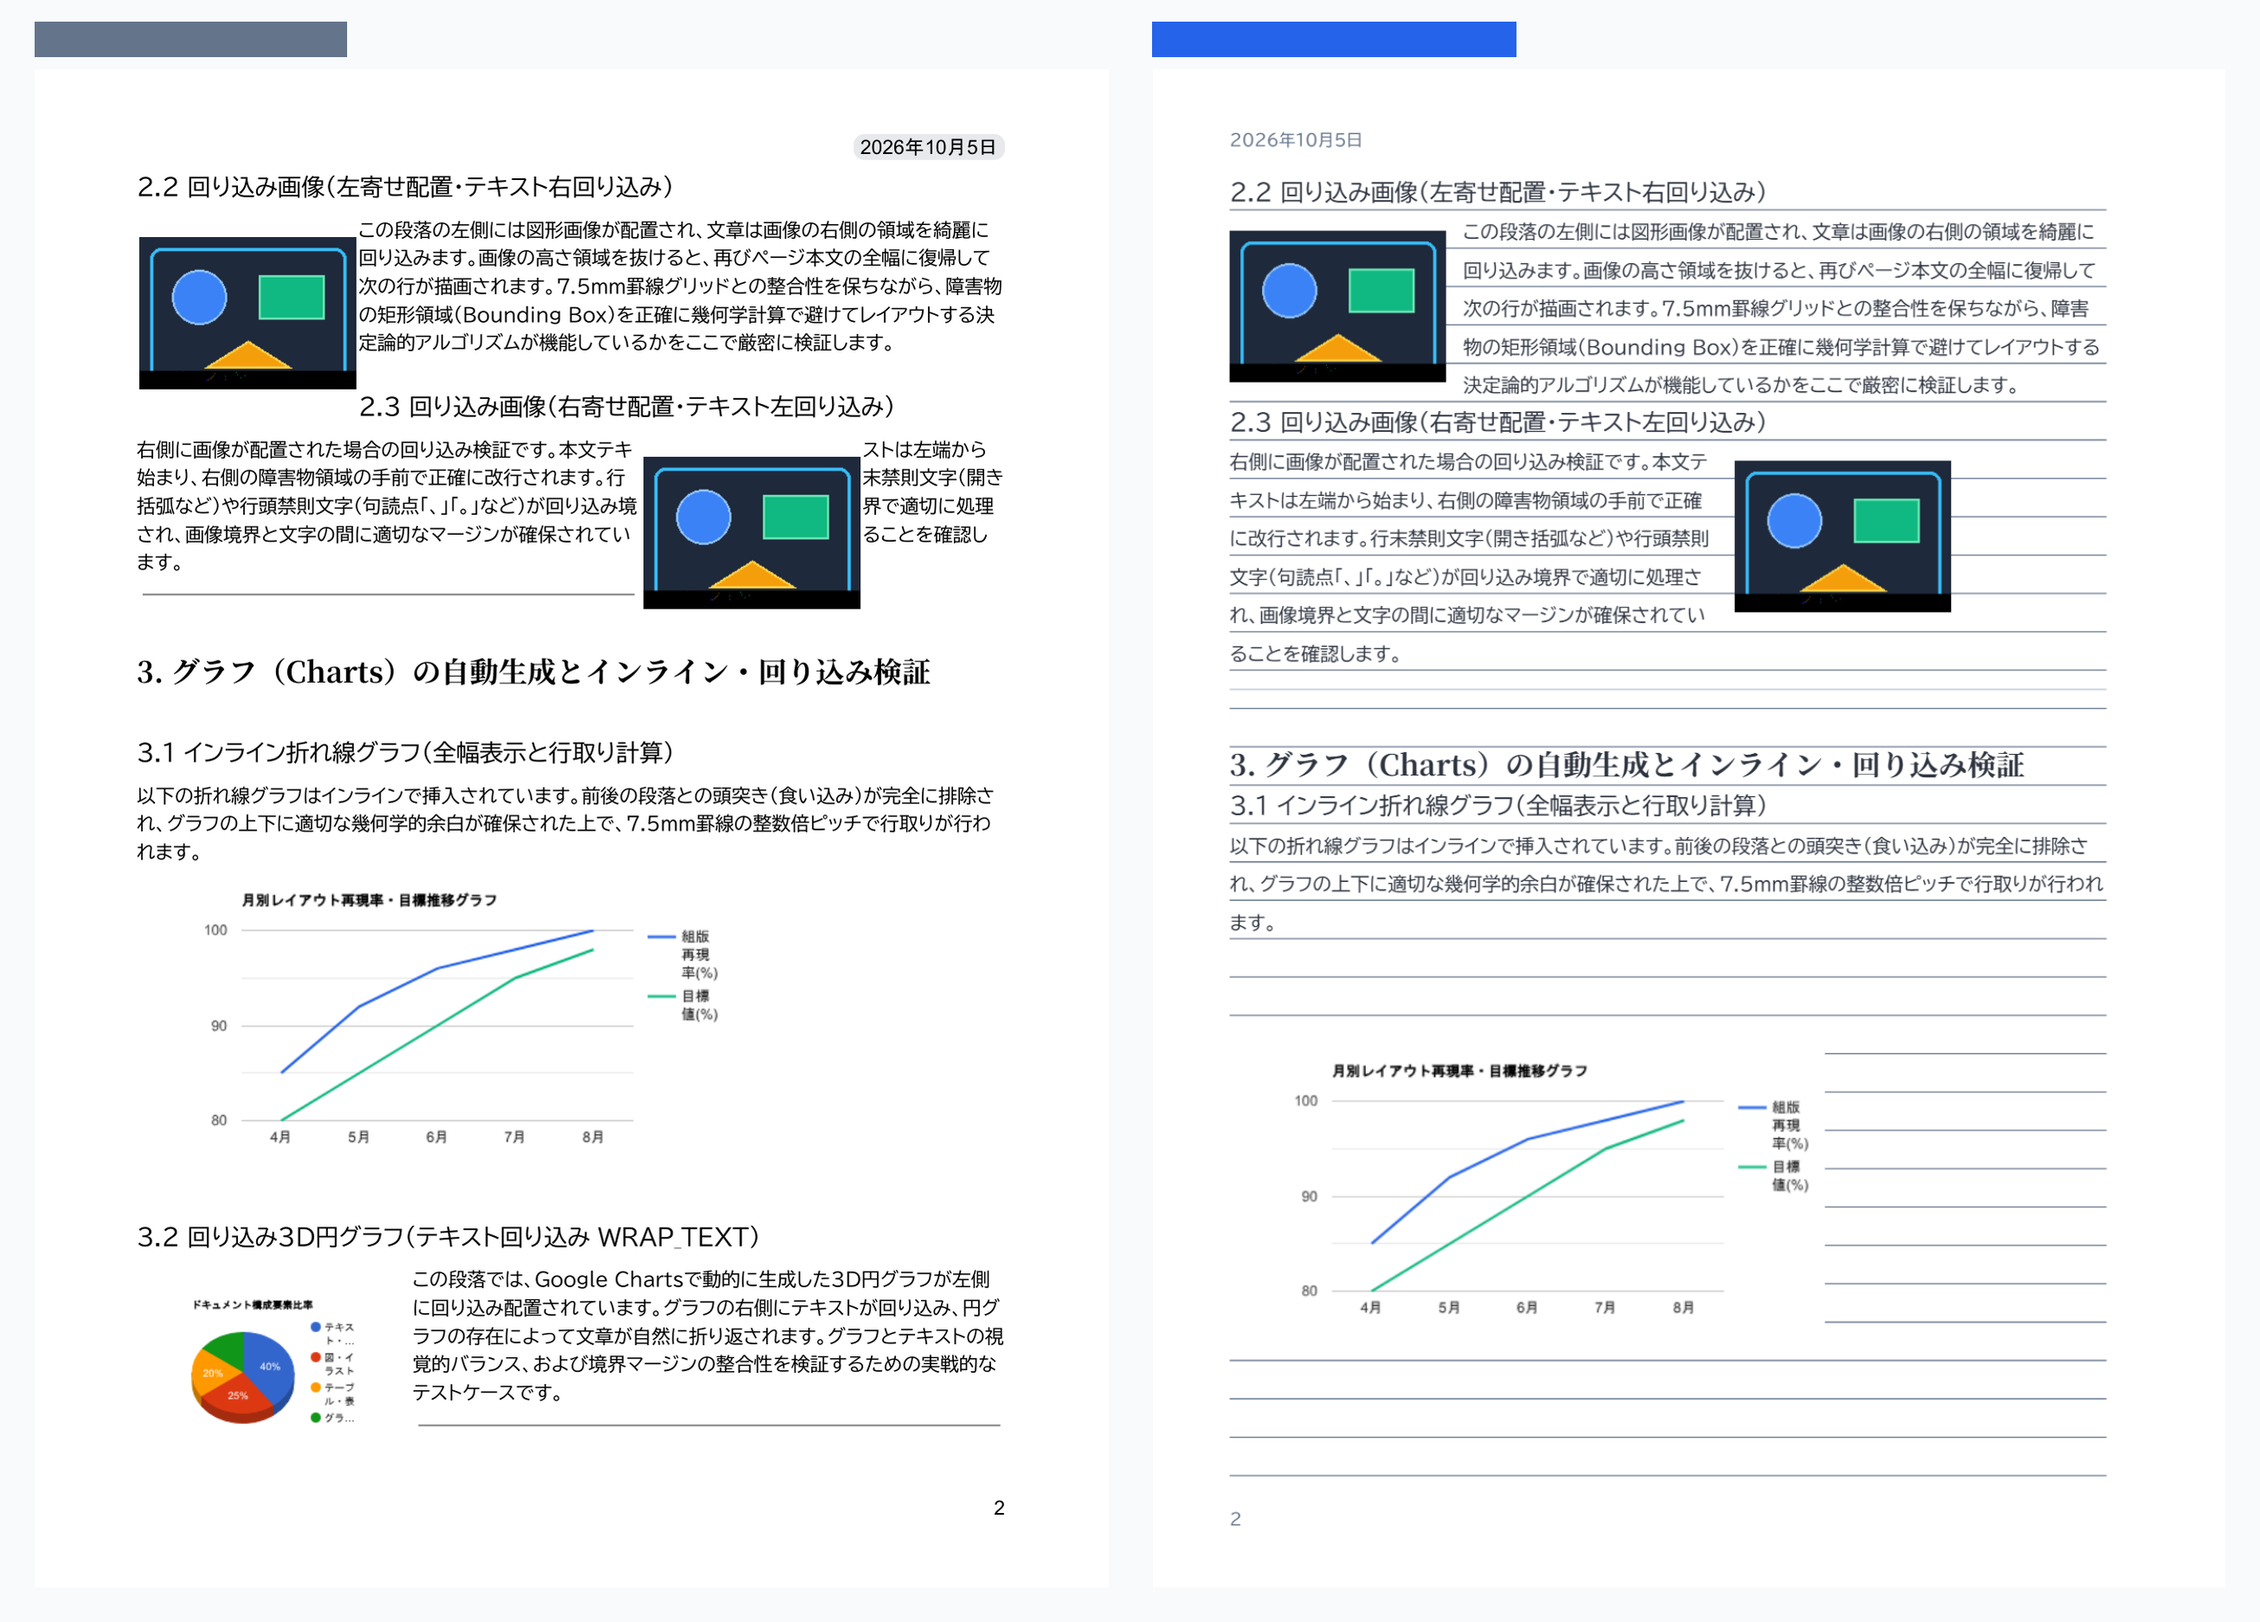
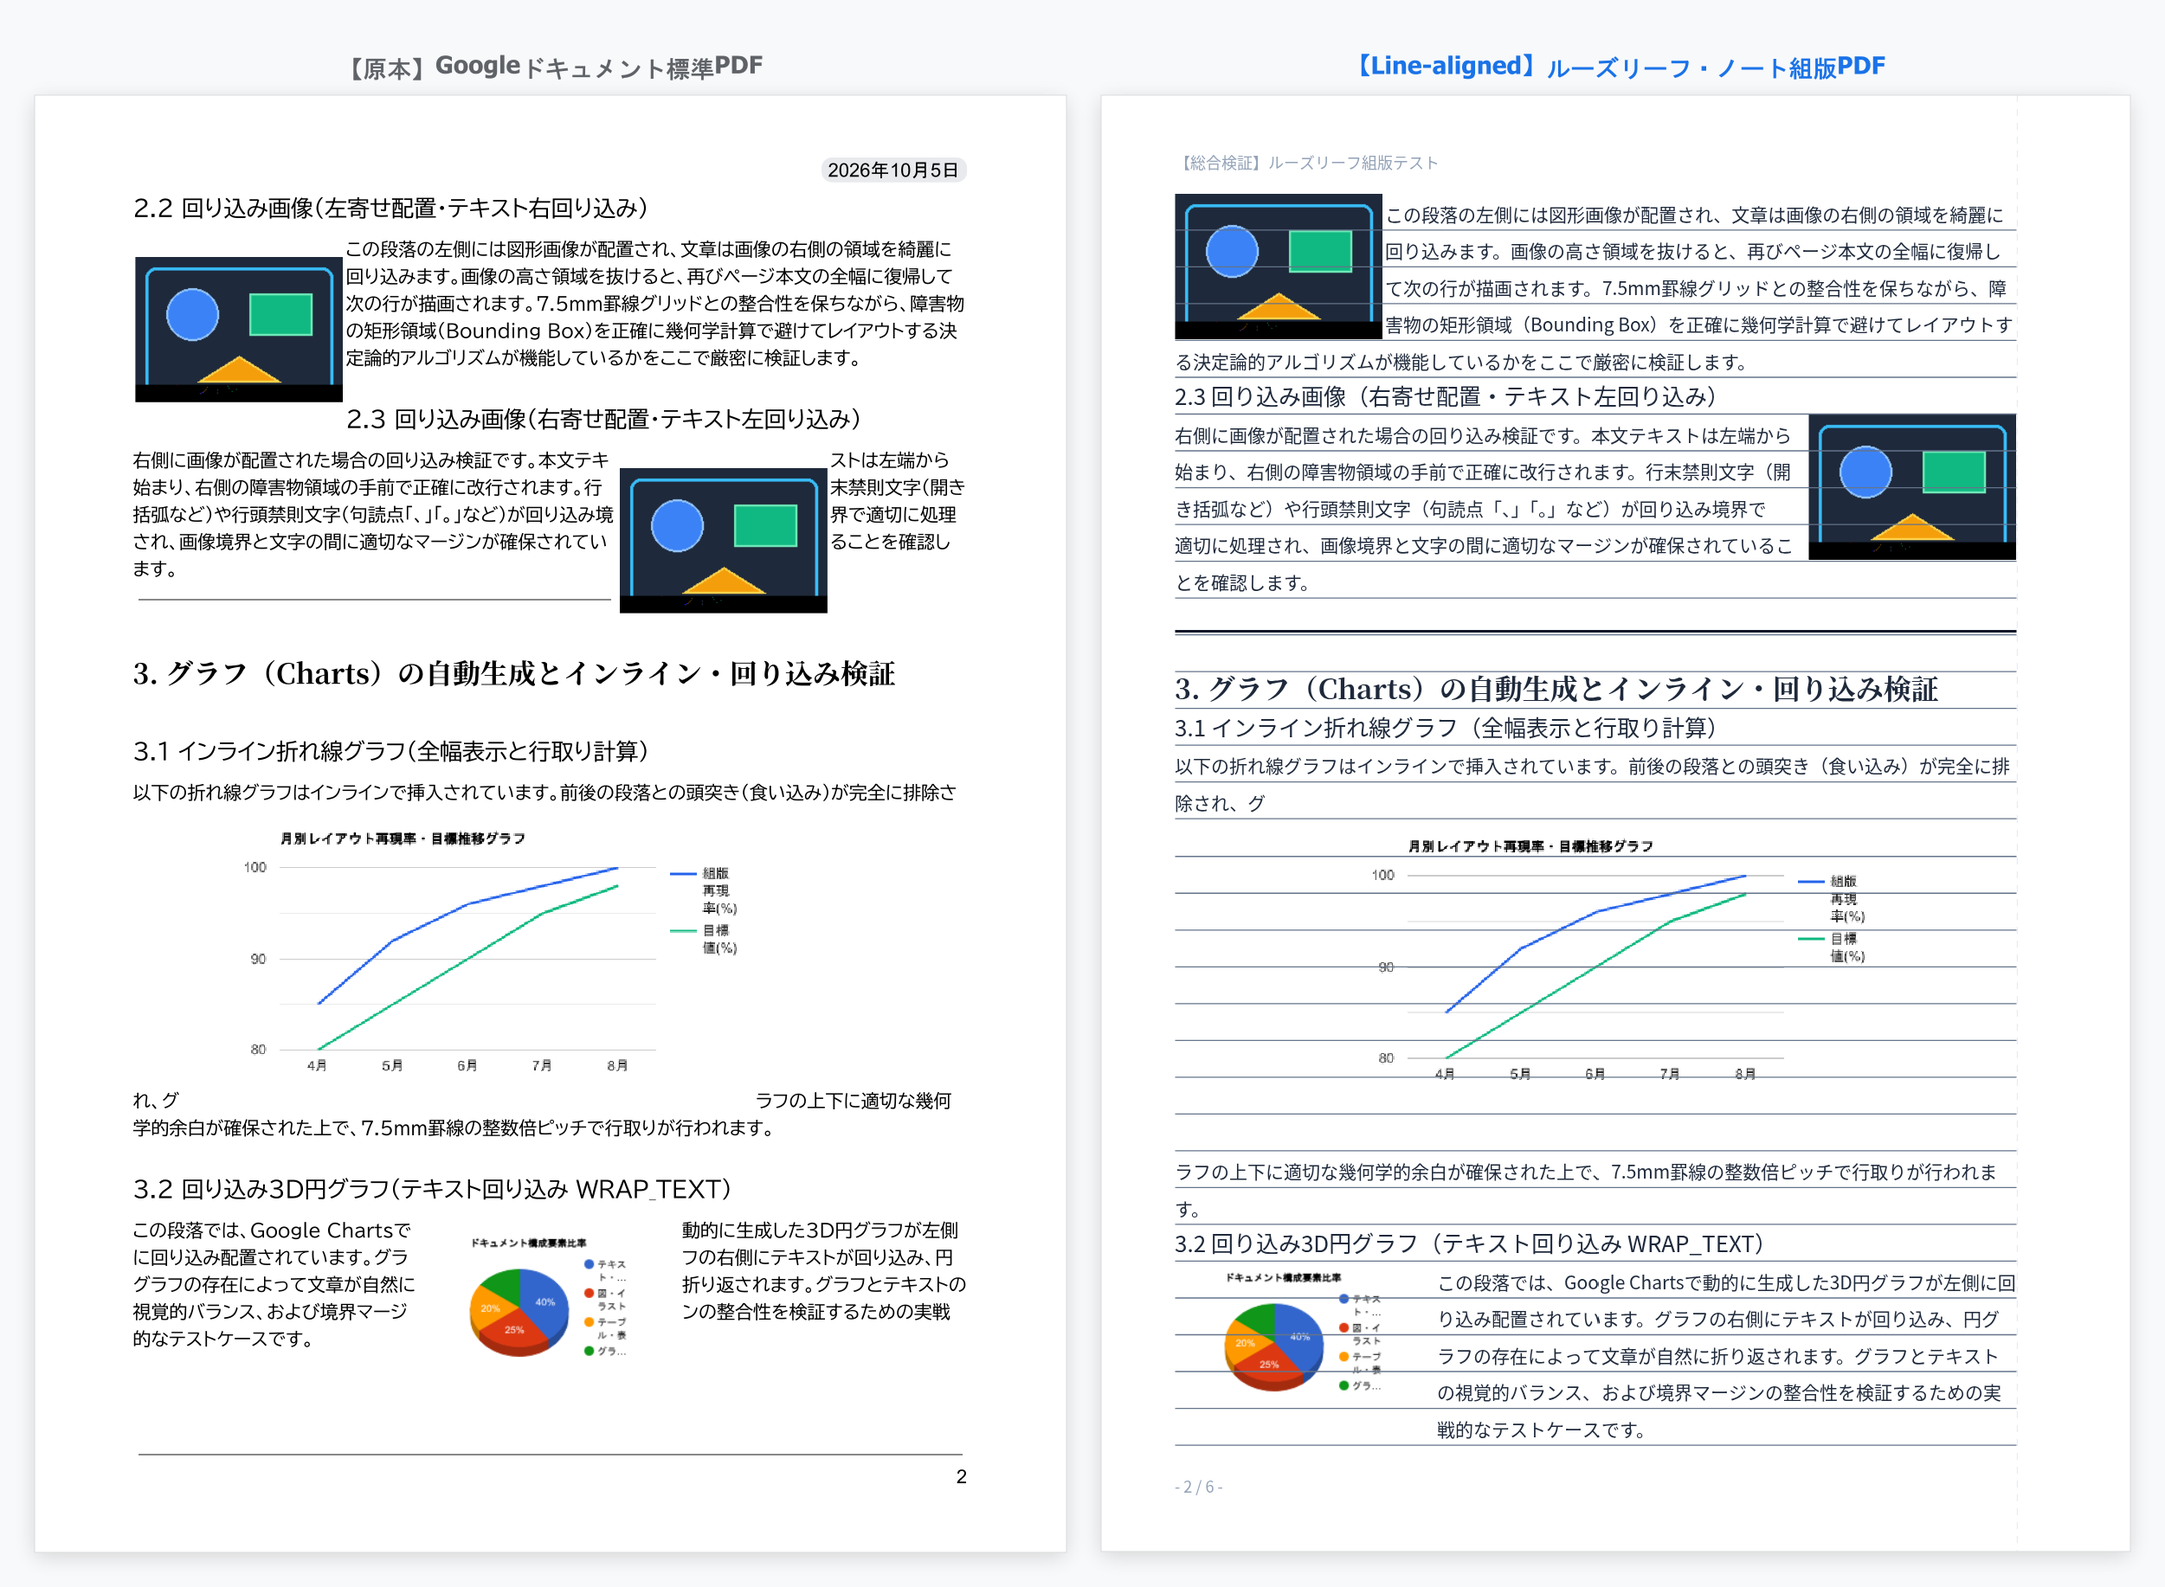
feat: 対比見本画像6枚の更新、Page 6タブ追加、2026.10.12開発履歴の追加

diff --git a/index.html b/index.html
@@ -603,6 +603,7 @@
         <button class="tab-btn" onclick="switchPage(3)">Page 3: <span class="lang-content ja">応用組版</span><span class="lang-content en">Applied Layout</span><span class="lang-content zh">应用排版</span><span class="lang-content ko">응용 조판</span></button>
         <button class="tab-btn" onclick="switchPage(4)">Page 4: <span class="lang-content ja">2段組レイアウト</span><span class="lang-content en">Two-Column Layout</span><span class="lang-content zh">双栏排版</span><span class="lang-content ko">2단 단 분할</span></button>
         <button class="tab-btn" onclick="switchPage(5)">Page 5: <span class="lang-content ja">3段組レイアウト</span><span class="lang-content en">Three-Column Layout</span><span class="lang-content zh">三栏排版</span><span class="lang-content ko">3단 단 분할</span></button>
+        <button class="tab-btn" onclick="switchPage(6)">Page 6: <span class="lang-content ja">総合検証（まとめ）</span><span class="lang-content en">Summary</span><span class="lang-content zh">综合总结</span><span class="lang-content ko">종합 요약</span></button>
       </div>
 
       <div class="image-viewer" onclick="openModal()">
@@ -825,6 +826,24 @@
       </p>
 
       <div class="timeline">
+        <!-- 2026-10-12 -->
+        <div class="timeline-item">
+          <div class="timeline-dot"></div>
+          <div class="timeline-date">2026.10.12</div>
+          <div class="timeline-content">
+            <h3>
+              <span class="lang-content ja">表の幾何学実寸測定・多段組動的バランシングによる超精密組版</span>
+              <span class="lang-content en">Geometric Table Slot Synchronization & Dynamic Multi-column Balancing</span>
+              <span class="lang-content zh">表格几何实寸测量对齐与多栏动态平衡精密排版</span>
+              <span class="lang-content ko">표 기하학적 실치수 슬롯 동기화 및 다단 동적 밸런싱 초정밀 조판</span>
+            </h3>
+            <ul>
+              <li><span class="lang-content ja">表（テーブル）の各セル寸法・余白・フォント高さをミリ単位で幾何学計算し、ノート罫線のスロット幅に完全一致（ベースライン同期）させて描画する精密測定エンジンを実装。</span><span class="lang-content en">Implemented precision measurement engine calculating table cell metrics to snap cell baselines perfectly onto notebook line slots.</span><span class="lang-content zh">实现高精度表格几何尺寸测量引擎，使表格单元格基线严格吸附于活页纸横线插槽。</span><span class="lang-content ko">표의 각 셀 치수, 여백, 폰트 높이를 밀리미터 단위로 기하학 계산하여 노트 줄눈 슬롯에 완벽 정렬(베이스라인 동기화)하는 정밀 측정 엔진 구현.</span></li>
+              <li><span class="lang-content ja">セクション区切り（SectionBreak）の後続セクション適用を精緻化し、多段組（2段組・3段組）の左右カラム高さを均等に揃える動的バランシングと表の等分折り返し描画に対応。</span><span class="lang-content en">Refined section break style handling with dynamic column balancing and proportional multi-column table wrapping.</span><span class="lang-content zh">精细化分节符后续样式继承，支持双栏/三栏动态高度平衡算法与表格等分折行排版。</span><span class="lang-content ko">섹션 구분의 후속 스타일 적용을 정교화하여 다단(2단/3단) 높이를 균등하게 맞추는 동적 밸런싱 및 표 등분 줄바꿈 렌더링 지원.</span></li>
+              <li><span class="lang-content ja">実際にGoogleドライブに出力された完成版PDFとGoogleドキュメント標準PDFの全6ページ完全左右対比見本を更新公開。</span><span class="lang-content en">Published complete 6-page side-by-side comparison gallery matching actual Google Drive PDF output against standard export.</span><span class="lang-content zh">更新发布全6页 Google 驱动器实际导出 PDF 与标准导出 PDF 的高清晰左右对比展示。</span><span class="lang-content ko">실제 Google 드라이브에 출력된 완성본 PDF와 표준 PDF의 전체 6페이지 좌우 대비 샘플 업데이트 공개.</span></li>
+            </ul>
+          </div>
+        </div>
         <!-- 2026-10-09 -->
         <div class="timeline-item">
           <div class="timeline-dot"></div>
@@ -977,6 +996,13 @@
         en: "Page 5: Three-column layout and document ending notebook optimization",
         zh: "Page 5: 三栏排版与文档末尾笔记本优化对比",
         ko: "Page 5: 3단 단 분할 및 문서 말미 노트 최적화 비교"
+      },
+      {
+        src: "images/page_06_比較（左_GoogleDocs_右_Line-aligned）.png",
+        ja: "Page 6: ドキュメント結び・余白バランスとルーズリーフ組版の総合まとめ",
+        en: "Page 6: Document ending, margin balance, and loose-leaf typesetting summary",
+        zh: "Page 6: 文档末尾、页边距平衡与活页纸排版综合总结",
+        ko: "Page 6: 문서 끝부분, 여백 밸런스 및 루즈리프 조판 종합 요약"
       }
     ];
 
